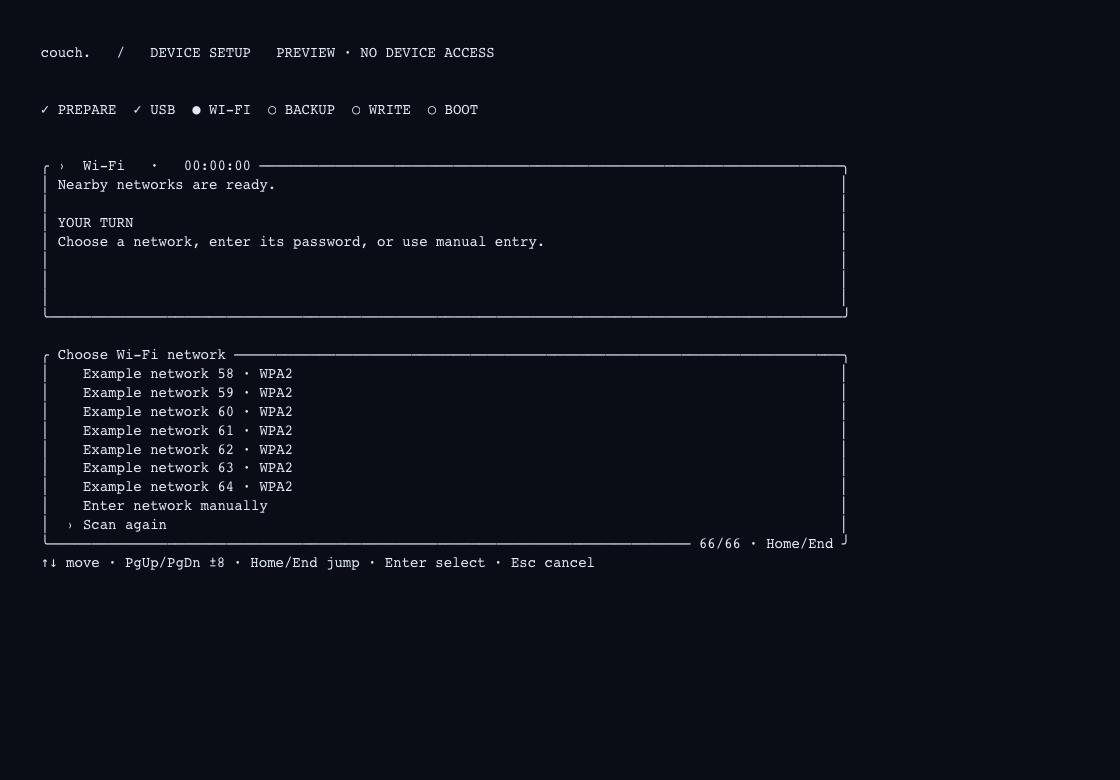
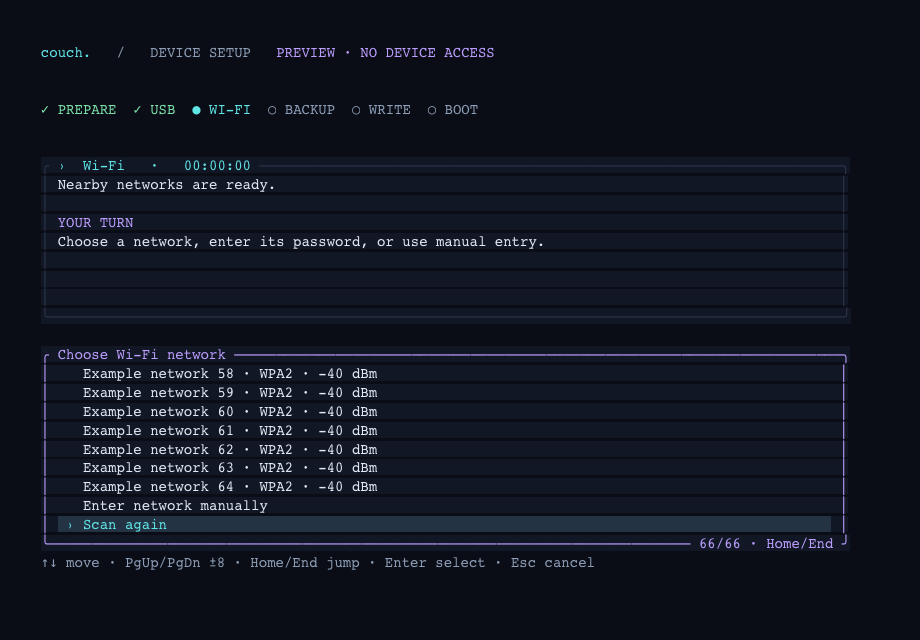
Keep network names visible in narrow installer menus

diff --git a/tools/installer/wifi_scan.py b/tools/installer/wifi_scan.py
@@ -5,6 +5,9 @@ import unicodedata
 
 import wifi_trial as trial
 
+SHORT_SECURITY = {'wpa2': 'WPA2', 'open': 'Open', 'enterprise': 'Enterprise',
+                  'wpa3': 'WPA3-only', 'wep': 'WEP', 'unsupported': 'Unsupported'}
+
 SECURITY = {'wpa2': 'WPA2 Personal', 'open': 'Open', 'enterprise': 'Enterprise · unsupported',
             'wpa3': 'WPA3-only · unsupported', 'wep': 'WEP · unsupported',
             'unsupported': 'Unsupported security'}
@@ -75,8 +78,8 @@ def network_form(terminal, out, incoming):
             detail = 'Choose a network, then enter its password. Only your remote was scanned.'
         terminal.stage(2, 'Choose Wi-Fi for your remote.', detail)
         options = [{'value': str(i),
-                    'label': f"[{SECURITY[n['security']]} · {n['dbm']} dBm] {display_ssid(bytes.fromhex(n['ssid_hex']))}",
-                    'detail': 'Signal measured by your remote.'} for i, n in enumerate(networks)]
+                    'label': f"{display_ssid(bytes.fromhex(n['ssid_hex']))} · {SHORT_SECURITY[n['security']]} · {n['dbm']} dBm",
+                    'detail': SECURITY[n['security']] + ' · Signal measured by your remote.'} for i, n in enumerate(networks)]
         options.append({'value': 'manual', 'label': 'Enter network manually / hidden network',
                         'detail': 'Type the exact SSID and select WPA2 Personal or open.'})
         if result['status'] != 'unsupported':

diff --git a/tools/installer/test_wifi_scan.py b/tools/installer/test_wifi_scan.py
@@ -86,6 +86,7 @@ class ScanTests(unittest.TestCase):
         self.assertEqual(value['ssid_hex'], raw.hex())
         self.assertEqual(value['psk_hex'], hashlib.pbkdf2_hmac('sha1', b'password', raw, 4096, 32).hex())
         label = terminal.prompts[0][1][0]['label']
+        self.assertTrue(label.startswith(' a'))
         self.assertIn('\\xff', label)
         self.assertNotIn('\x1b', label)
         self.assertNotIn('\x00', label)

diff --git a/tools/installer/tui/src/main.rs b/tools/installer/tui/src/main.rs
@@ -256,7 +256,7 @@ impl App {
         prompt.options = (1..=64)
             .map(|n| Choice {
                 value: format!("network-{n}"),
-                label: format!("Example network {n:02} · WPA2"),
+                label: format!("Example network {n:02} · WPA2 · -40 dBm"),
                 detail: String::new(),
             })
             .collect();
